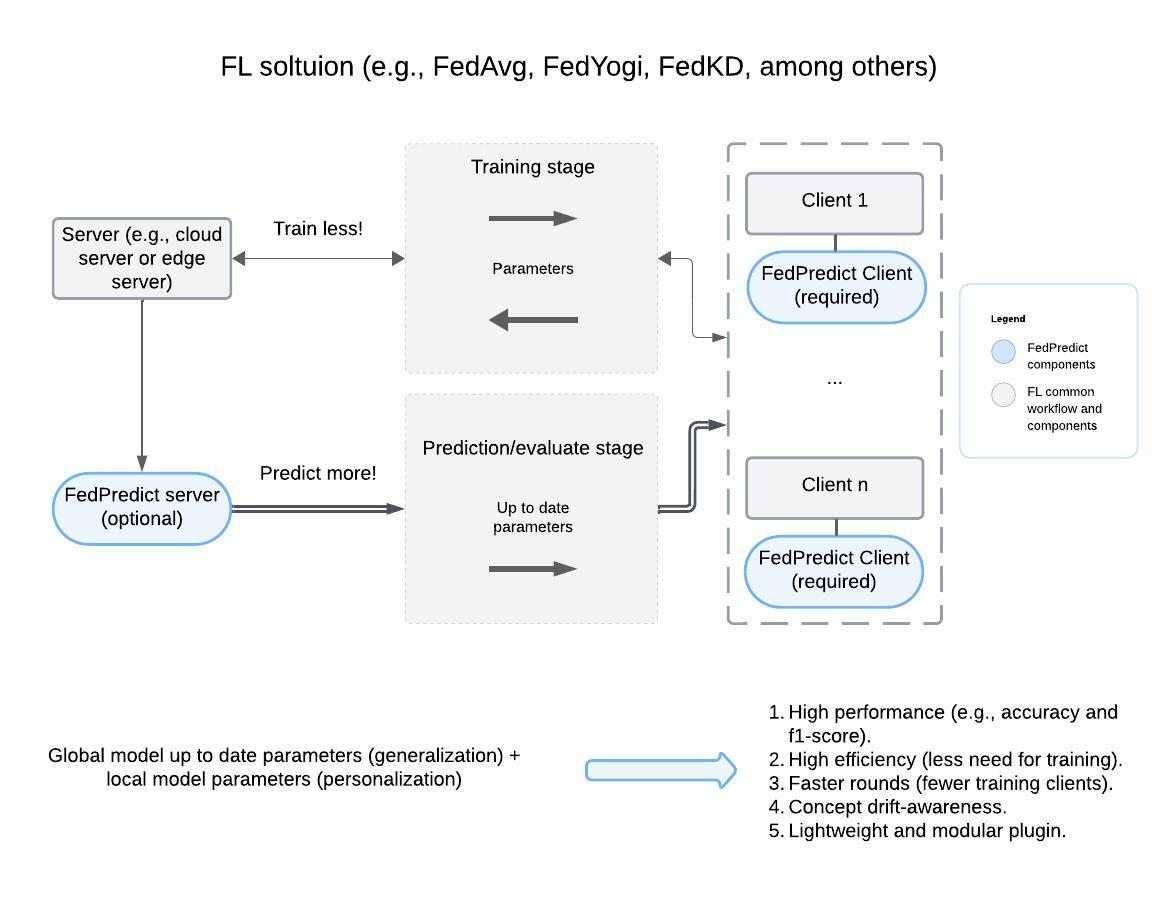
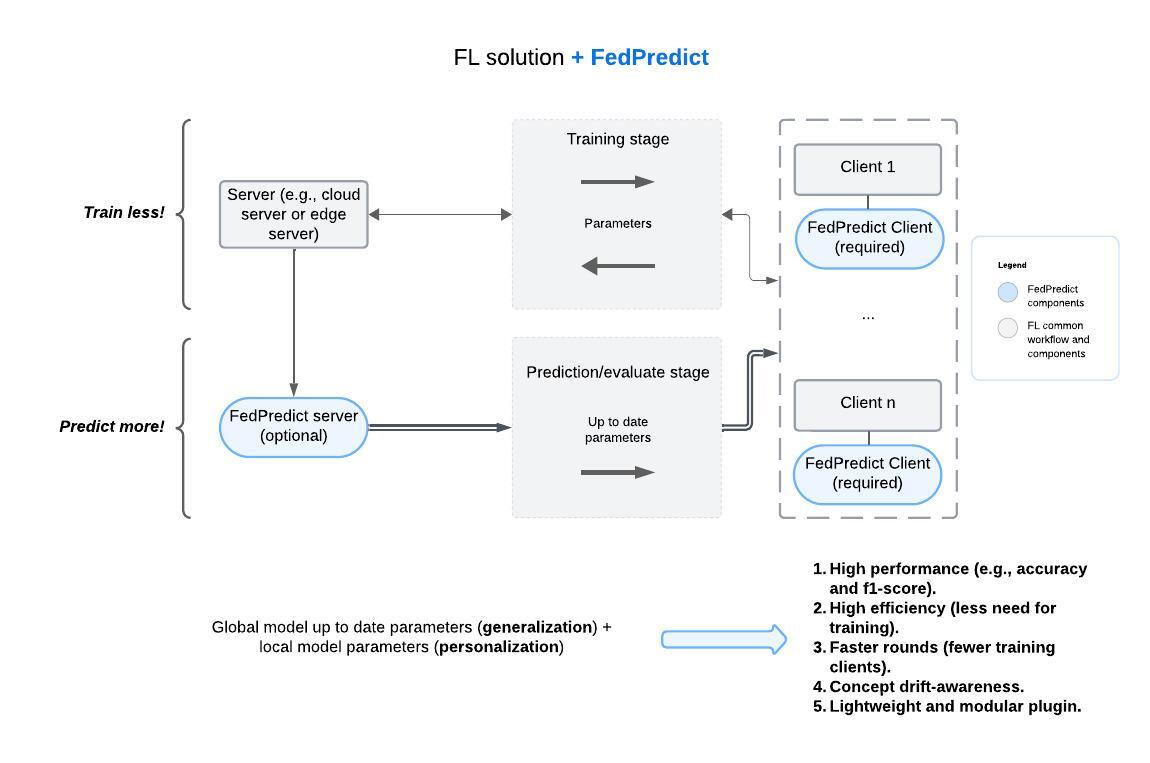
Readme

diff --git a/docs/index.md b/docs/index.md
@@ -21,6 +21,8 @@ the evolution level (el) of the global model, the update level (ul) of the local
 similarity (s) between the old data (i.e., the one in which the model was previously trained) and 
 the recently acquired data). Then, the client uses the combined model to make predictions over the test/val data.
 
+![](../fedpredict%20v5.jpeg)
+
 ## Benefits
 
 The list of benefits of the plugin as listed as follows:
